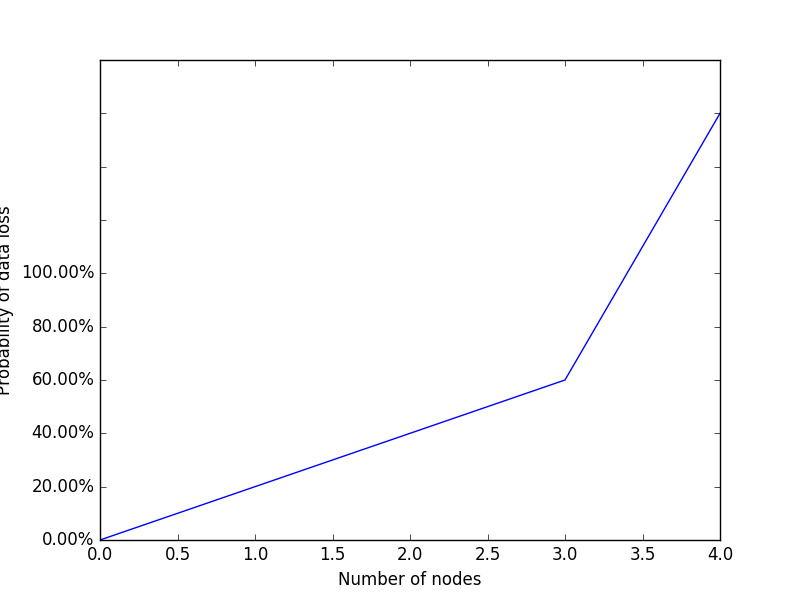
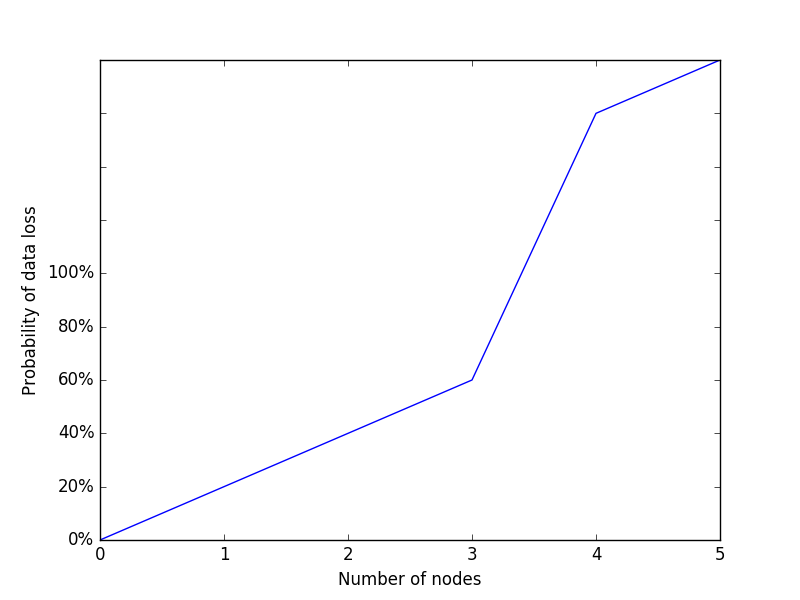
Updated plot

diff --git a/Main.py b/Main.py
@@ -69,7 +69,7 @@ def generateDiagram(schemeNames, data, groupSize=None):
 def generateFigure6(schemeNames, data):
    # TODO: generate Figure 6 plot
    # TODO: use the scheme names to generate the figure key in correct order
-   plt.plot([0.1, 0.2, 0.3, 0.4, 0.9])
+   plt.plot([0.1, 0.2, 0.3, 0.4, 0.9, 1.0])
 
    # set x-axis
    plt.xlabel('Number of nodes')
@@ -77,7 +77,7 @@ def generateFigure6(schemeNames, data):
    # set y-axis
    plt.ylabel('Probability of data loss')
    ax = plt.gca()
-   ax.set_yticklabels(['{:,.2%}'.format(x) for x in [0.0, 0.2, 0.4, 0.6, 0.8, 1.0]])
+   ax.set_yticklabels(['{:,.0%}'.format(x) for x in [0.0, 0.2, 0.4, 0.6, 0.8, 1.0]])
 
    # save figure
    plt.savefig('Figure6.png')
